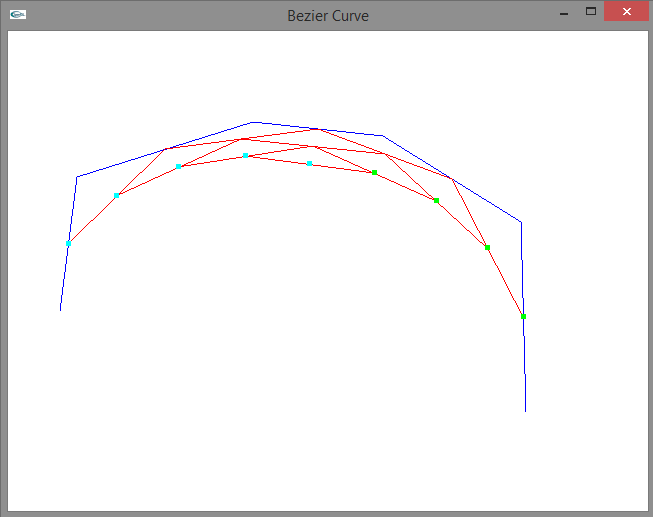
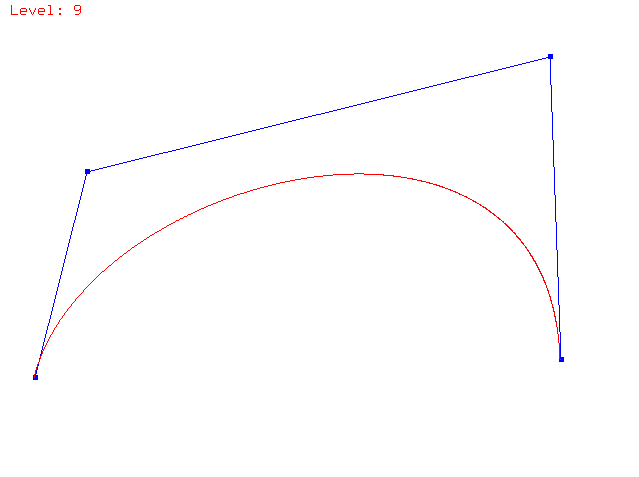
Implemented Prototype 2

diff --git a/OpenGL/2_bezierCurve/bezierCurve.cpp b/OpenGL/2_bezierCurve/bezierCurve.cpp
@@ -3,20 +3,22 @@
 #include <iostream>
 #include <glut.h>
 #include <vector>
+#include <sstream>
 
 // Window init size.
 int XSize = 640, YSize = 480;
-
 using namespace std;
+
+void drawCurve();
 
 // Class Point will be used to store the points in the users polygon.
 class Point {
 public:
-	int x;
-	int y;
+	float x;
+	float y;
 	int level;
 	Point();
-	Point(int X, int Y, int Level);
+	Point(float X, float Y, int Level);
 };
 
 
@@ -26,35 +28,57 @@ Point::Point() {
 	level = 0;
 }
 
-Point::Point(int X, int Y, int Level) {
+Point::Point(float X, float Y, int Level) {
 	x = X; 
 	y = Y;
 	level = Level;
 }
 
-vector<Point> points; // Point array (20 points max)
-vector< vector<Point> > levels; // Point array showing current level-n poly.
-vector< vector<Point> > polys; // generated sub-bezier polys.
-int currentLevel = -1;
+vector<Point> points;				// Point array (20 points max)
+vector<Point> curve;				// The entire bezier curve, generated by stiching togehter many sub-polys.
+vector< vector<Point> > levels;		// Point array showing current level-n poly.
+vector< vector<Point> > polys;		// generated sub-bezier polys.
 
+int currentLevel = -1;
+int bezierLevel = 2;				// The level-n bezier curve
+int oldLevel = 2;					// A temp level-n bezier, in case we need to change the level then covert back to origonal.
+int currentBezierLevel = 0;			// A countdown used in generateBezier to determine when to stop.
+const int ENABLE_INIT_POLY = 0;		// Shows the init-poly and allows user to create points.
+const int DISABLE_INIT_POLY = 1;	// Hides the init-poly and does not allow user to create points.
+int STATE = ENABLE_INIT_POLY; 
+bool mouseDown = false;
+
+void * FONT = GLUT_BITMAP_9_BY_15;
 
 // Generate Bezier Curve of given poly (point vector)
-void generateBezier( vector<Point> points ) 
+void generateBezier( vector<vector<Point>> givenPolys ) 
 {
-	levels.push_back( *new vector<Point> );
-	currentLevel++;
-	for( size_t i = 1; i < points.size(); i++ ) {
-		int midx = (points[i-1].x + points[i].x) / 2;
-		int midy = (points[i-1].y + points[i].y) / 2;
-		levels[currentLevel].push_back(*new Point(midx, midy, 0));
-	}
-	// If we are down to a single point, generate generate new poly-lines. Otherwise keep spliting.
-	if( levels[currentLevel].size() < (size_t)2 ) {
-		// (2) break up into two polys.
-		polys.clear();
-		size_t n = levels.size();
+	vector<vector<Point>> Polys;	
+	for(int k = 0; (size_t)k < givenPolys.size(); k++) 
+	{
 		vector<Point> poly1;
 		vector<Point> poly2;
+		int N0 = givenPolys.size() - 1;
+		int n0 = givenPolys[N0].size() - 1;
+		poly1.push_back(*new Point(givenPolys[k][0].x, givenPolys[k][0].y, 0));
+		poly2.push_back(*new Point(givenPolys[k][n0].x, givenPolys[k][n0].y, 0));
+		// Do subdivisions until we reach a single point.
+		while(true)
+		{
+			levels.push_back( *new vector<Point> );
+			currentLevel++;
+			for( size_t i = 1; i < givenPolys[k].size(); i++ ) {
+				float midx = (givenPolys[k][i-1].x + givenPolys[k][i].x) / 2;
+				float midy = (givenPolys[k][i-1].y + givenPolys[k][i].y) / 2;
+				levels[currentLevel].push_back(*new Point(midx, midy, currentBezierLevel));
+			}
+			// When we are down to a point stop get mid-points
+			if( levels[currentLevel].size() < (size_t)2 ) break; 
+			givenPolys[k] = levels[currentLevel];
+		}
+		
+		// (2) break up into two polys.
+		size_t n = levels.size();
 		for(size_t i = 0; i < n; i++) {
 			size_t subN = levels[i].size();
 			if(subN > 0) {
@@ -62,39 +86,72 @@ void generateBezier( vector<Point> points )
 				poly2.push_back(*new Point(levels[i][subN - 1].x, levels[i][subN - 1].y, 0));
 			}
 		}
-		polys.push_back(poly1);
-		polys.push_back(poly2);
+		//Place vectors end-by-end, we need to flip ploy2 to do that.
+		Polys.push_back(poly1);
+		reverse(poly2.begin(),poly2.end());
+		Polys.push_back(poly2);
 		currentLevel = -1;
-		return;
+		levels.clear();
+	}
+	if(bezierLevel > currentBezierLevel) {
+		currentBezierLevel++;
+		currentLevel = -1;
+		generateBezier(Polys);
 	} else {
-		generateBezier(levels[currentLevel]);
+		for(int i = 0; (size_t)i < Polys.size(); i++) polys.push_back(Polys[i]);
+		currentBezierLevel = 0;
 	}
 }
+
+void drawString(float x, float y, string str){
+    glRasterPos2f(x, y);
+    for (string::iterator i = str.begin(); i != str.end(); ++i) {
+		char c = *i;
+		glutBitmapCharacter(FONT, c);
+    }
+} 
+
 
 void renderScene(void) 
 {
 	glClearColor(1.0f, 1.0f, 1.0f, 1.0f); // Set background color to white
 	glClear(GL_COLOR_BUFFER_BIT);         // Clear the screen-buffer.
- 
-	// Draw original poly
-	glBegin(GL_LINE_STRIP);
-		glColor3f(0.0f, 0.0f, 1.0f);
-		for(size_t i = 0; i < points.size(); i++){
-			glVertex2i(points[i].x, points[i].y);
-		}
-	glEnd();
-	
-	// Draw level-n poly
-	glColor3f(0.0f, 1.0f, 0.0f);
-	for(size_t i = 0; i	< polys.size(); i++) {
-		size_t subPolyN = polys[i].size();
+
+	// Draw text info
+	glClearColor(0.0f, 1.0f, 0.0f, 1.0f);
+	stringstream ss;
+	ss << "Level: " << (bezierLevel + 1);
+	string str = ss.str();
+	drawString( 10, 15, str );
+
+	if( STATE == ENABLE_INIT_POLY ) 
+	{
+		// Draw original poly
 		glBegin(GL_LINE_STRIP);
-			for(size_t j = 0; j	< subPolyN; j++) {
-				glVertex2i(polys[i][j].x, polys[i][j].y);
+			glColor3f(0.0f, 0.0f, 1.0f);
+			for(size_t i = 0; i < points.size(); i++){
+				glVertex2i(points[i].x, points[i].y);
+			}
+		glEnd();
+		// Draw points
+		glBegin(GL_POINTS);
+			glColor3f(0.0f, 0.0f, 1.0f);
+			for(size_t i = 0; i < points.size(); i++){
+				glVertex2i(points[i].x, points[i].y);
 			}
 		glEnd();
 	}
-
+	// Note : Merge all sub polys to single poly, then draw.
+	// Draw level-n poly
+	glColor3f(1.0f, 0.0f, 0.0f);
+	glBegin(GL_LINE_STRIP);
+	for(size_t i = 0; i	< polys.size(); i++) {
+		size_t subPolyN = polys[i].size();
+			for(size_t j = 0; j	< subPolyN; j++) {
+				glVertex2i(polys[i][j].x, polys[i][j].y);
+			}
+	}
+	glEnd();
 	glFlush();  // Show buffer.
 }
 
@@ -108,7 +165,7 @@ void extendScreen(int width, int height)
 	glViewport(0, 0, width, height);
 }
 
-// Keyboard events : "q" = Quit , "n" = New , "+/-" = change level , "p" = toggle states.
+// Keyboard events : "q" = Quit , "n" = New 
 void keyPress(unsigned char key, int x, int y)
 {
 	if(key == 'Q' || key == 'q')  exit(0); 
@@ -121,14 +178,103 @@ void keyPress(unsigned char key, int x, int y)
 	}
 }
 
-// mouse() => When the user clicks on the screen a new point is created on the screen based on mouse pos.
-void mouse(int btn, int state, int x, int y) {
-	if(btn == GLUT_LEFT_BUTTON && state == GLUT_UP){
-		points.push_back(*new Point(x, y, 0));
-		levels.clear();
-		generateBezier(points);
+// Keyboard release events:  "+/-" = change level , "p" = toggle states.
+void keyRelease(unsigned char key, int x, int y)
+{
+	if(key == 'Q' || key == 'q')  exit(0); 
+	if(key == 'N' || key == 'n') {
+		polys.clear();
+		levels.clear(); // Clear level-i poly.
+		points.clear(); // Clear init poly lines 
+		currentLevel = -1; // Reset level.
 		glutPostRedisplay();
 	}
+	if(key == '+') {
+		if(bezierLevel < 8) bezierLevel++;
+		drawCurve();
+	}
+	if(key == '-') {
+		if(bezierLevel > 0) bezierLevel--;
+		drawCurve();
+	}
+	if(key == 'p' || key == 'P') {
+		if( STATE == ENABLE_INIT_POLY ) 
+			STATE = DISABLE_INIT_POLY;
+		else if( STATE == DISABLE_INIT_POLY )
+			STATE = ENABLE_INIT_POLY;
+		glutPostRedisplay();
+	}
+	if(key == 'd' || key == 'D'){
+		if(points.size() > 0) {
+			points.pop_back();
+			if(points.size() >= 1) drawCurve();
+			glutPostRedisplay();
+		}
+	}
+}
+
+// mouse() => When the user clicks on the screen a new point is created on the screen based on mouse pos.
+void mouse(int btn, int state, int x, int y) {
+	if(btn == GLUT_LEFT_BUTTON && state == GLUT_UP && STATE == ENABLE_INIT_POLY){
+		points.push_back(*new Point(x, y, 0));
+		drawCurve();
+	}
+	if(btn == GLUT_LEFT_BUTTON && state == GLUT_DOWN){ mouseDown = true; } 
+	else if(btn == GLUT_LEFT_BUTTON && state == GLUT_UP){ mouseDown = false; } 
+}
+
+void drawCurve() {
+	levels.clear();
+	polys.clear();
+	vector< vector<Point> > initPoly;
+	initPoly.push_back(points);
+	generateBezier(initPoly);
+	glutPostRedisplay();
+}
+
+//When the mouse button is held down, show user how the next curve looks.
+// To make this more efficent we lower the level-n to be a max of 2, then set it back to what it was afterwards.
+void approximateCurvePoint(int x, int y) 
+{
+	if(mouseDown == true && STATE == ENABLE_INIT_POLY) {
+		// Save old curve level, then set to level-2.
+		oldLevel = bezierLevel;
+		if(oldLevel > 1 ) bezierLevel = 2;
+
+		// Draw curve with current point of mouse.
+		vector<Point> tempPoints = points;
+		tempPoints.push_back(*new Point(x,y,0));
+		levels.clear();
+		polys.clear();
+		vector< vector<Point> > initPoly;
+		initPoly.push_back(tempPoints);
+		generateBezier(initPoly);
+		bezierLevel = oldLevel;
+		glutPostRedisplay();
+	}
+}
+
+void mymenu (int id) {
+	// Inc bezier
+	if (id == 1){
+		if(bezierLevel < 8) bezierLevel++;
+		drawCurve();
+	}
+	// Dec bezier
+	else if (id == 2) {
+		if(bezierLevel > 0) bezierLevel--;
+		drawCurve();
+	}
+	// Toggle state
+	else if (id == 3) {
+		if( STATE == ENABLE_INIT_POLY ) 
+			STATE = DISABLE_INIT_POLY;
+		else if( STATE == DISABLE_INIT_POLY )
+			STATE = ENABLE_INIT_POLY;
+		glutPostRedisplay();
+	}
+	// Exit
+	else if(id == 4) exit(0);
 }
 
 int main(int argc, char **argv) {
@@ -148,10 +294,19 @@ int main(int argc, char **argv) {
 	glutDisplayFunc(renderScene);
 	glutReshapeFunc(extendScreen);
 	glutKeyboardFunc(keyPress);
+	glutKeyboardUpFunc(keyRelease);
 	glutMouseFunc(mouse);
+	glutMotionFunc(approximateCurvePoint);
+
+	//Menu
+	glutCreateMenu (mymenu);
+	glutAddMenuEntry ("Inc beizer level [ + ]", 1);
+	glutAddMenuEntry ("Dec beizer level [ - ]", 2);
+	glutAddMenuEntry ("Toggle Polygon", 3);
+	glutAddMenuEntry ("Quit", 4);
+	glutAttachMenu (GLUT_RIGHT_BUTTON);
 
 	// enter GLUT event processing loop
 	glutMainLoop();
-
 	return 1;
 }
